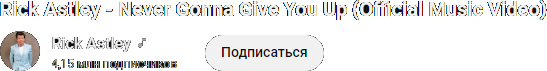
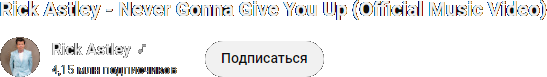
fix Rickroll description

diff --git a/Youtube/style.css b/Youtube/style.css
@@ -675,7 +675,7 @@ button.Tab_title__hAYZk[aria-selected="true"] {
 	top: 792px;
 	width: 20px;
 	height: 20px;
-	background: #272727;
+	background: #f1f1f1;
 	z-index: 5;
 }
 
